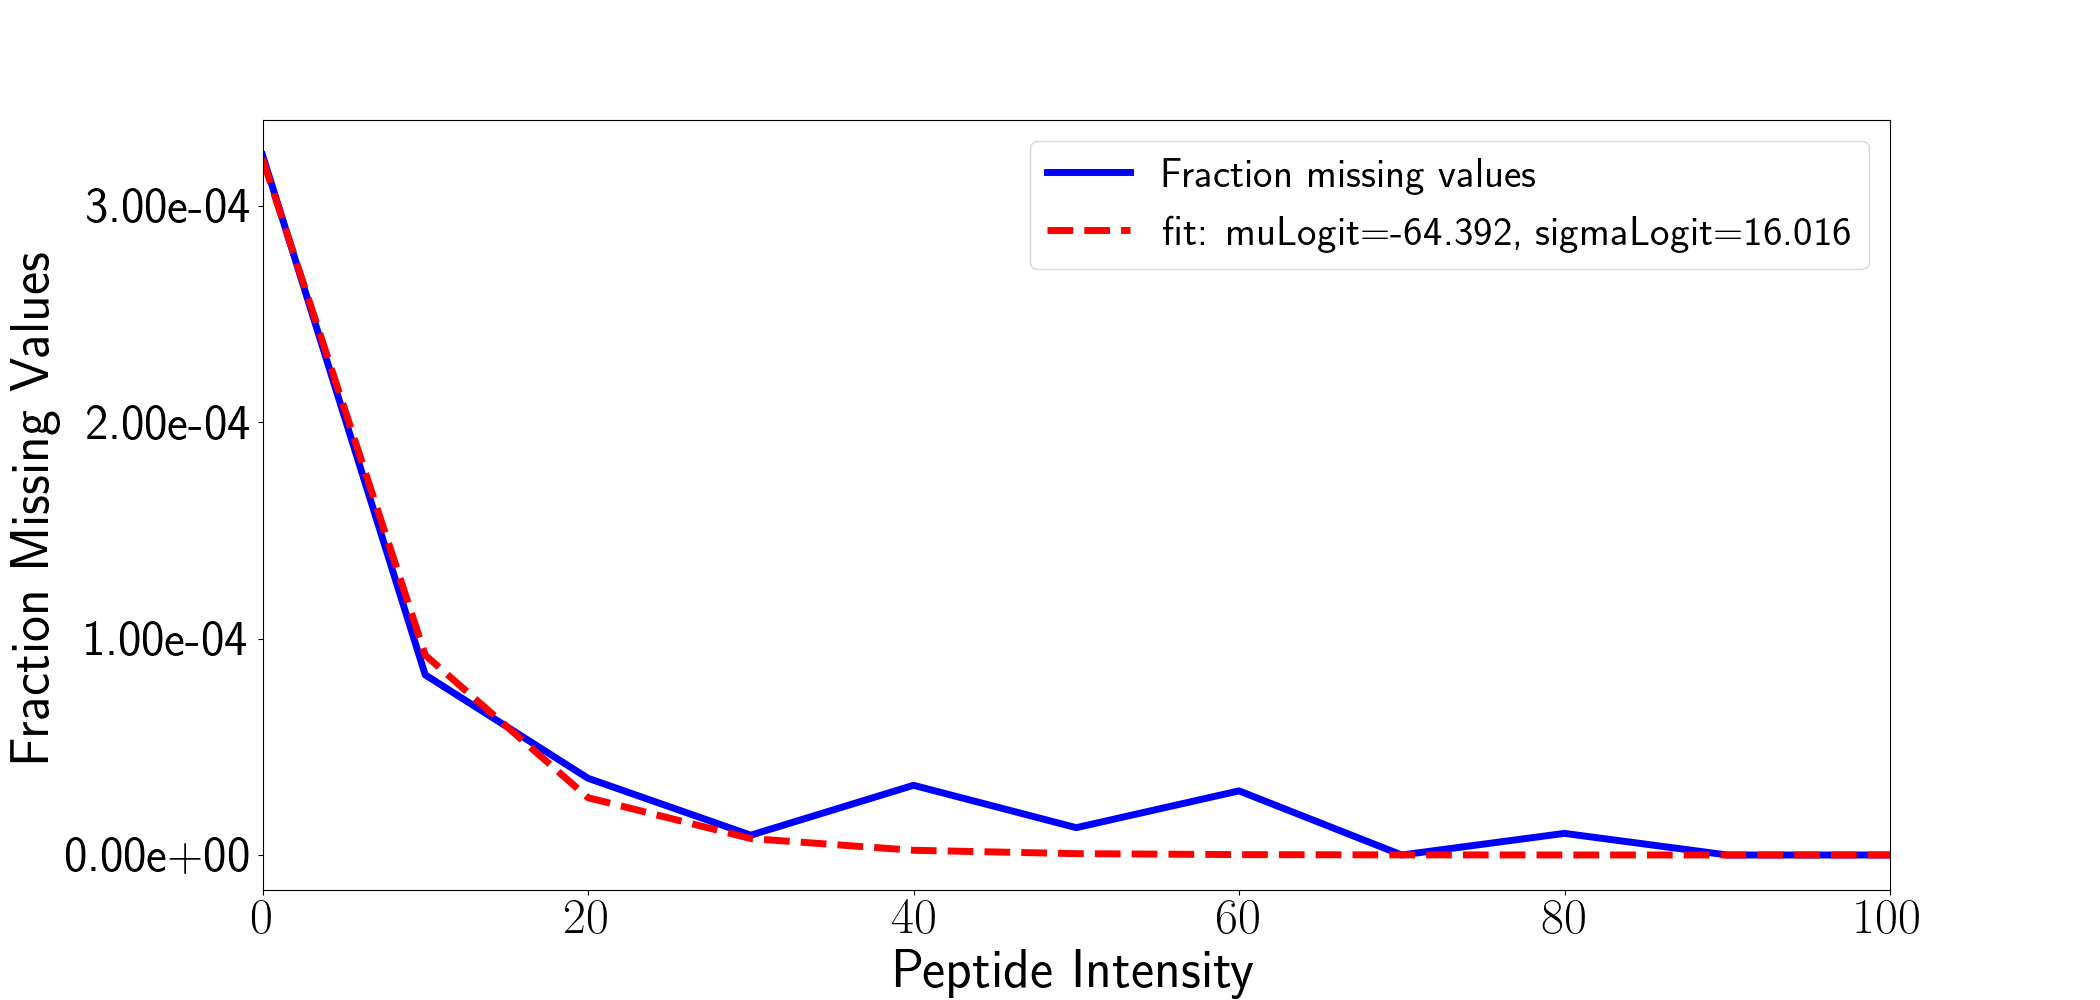
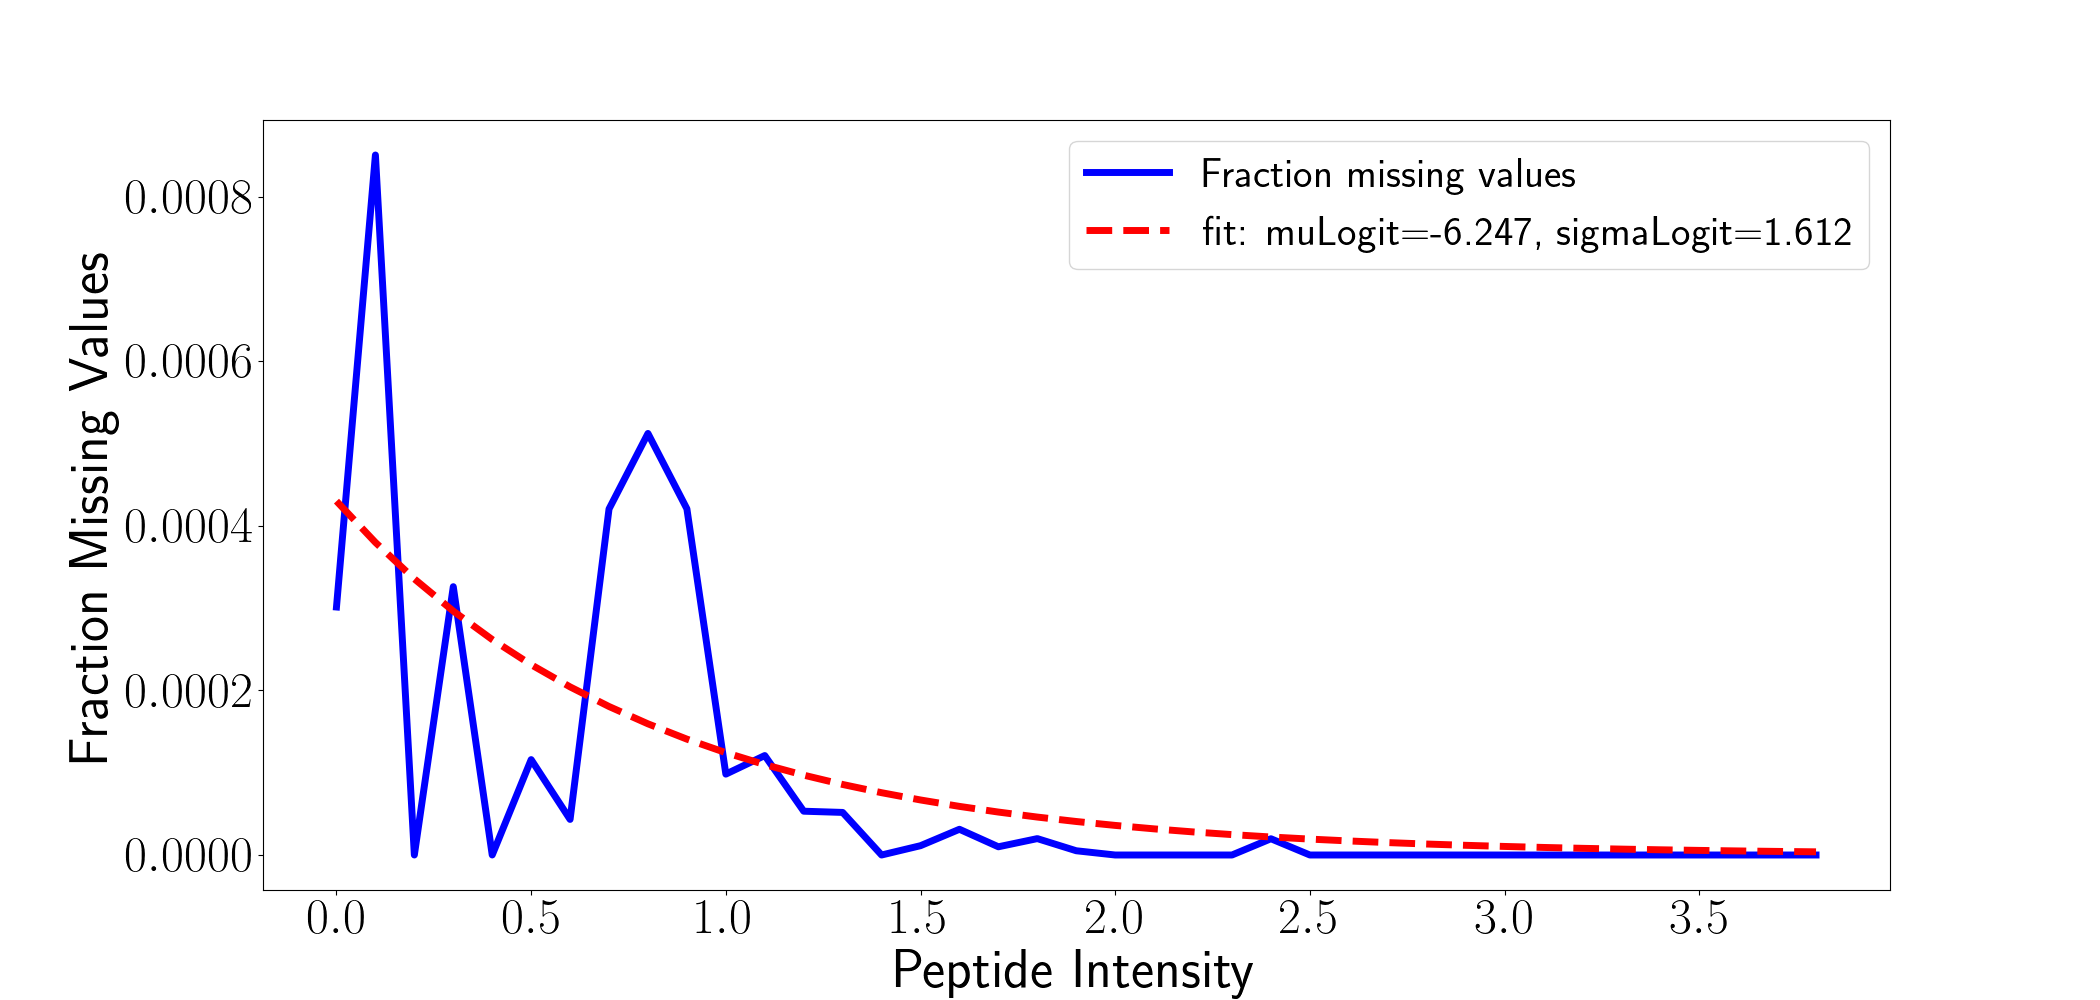
update fraction missing values

diff --git a/scripts/clean/plot_fraction_missing_values.py b/scripts/clean/plot_fraction_missing_values.py
@@ -59,7 +59,7 @@ def create_pivot_table_with_missing_count_per_condition(df):
     # Compute mean, standard deviation and na_count
     pivot_missing["mu"] = pivot_missing.mean(axis = 1)
     pivot_missing["std"] = pivot_missing.std(axis = 1) 
-    pivot_missing["na_count"] = pivot_missing.isna().sum(axis = 1) - 3 # remove three because we do not want to count missing on both samples
+    pivot_missing["na_count"] = pivot_missing.isna().sum(axis = 1) - 10 # remove three because we do not want to count missing on both samples
     return pivot_missing, conditions_cols
 
 
@@ -105,7 +105,7 @@ def compute_missing_value_factions(df, bins = np.arange(0,1000,10)):
     # Now each bin is an intensity range and each ratio is the fraction of missing value for that intensity.
     df_binned_missing_value_fraction = (df_binned_imputed_mean_nans.value_counts() / df_binned_vals.value_counts())
     df_binned_missing_value_fraction = pd.DataFrame(df_binned_missing_value_fraction.values, index = df_binned_missing_value_fraction.index, columns = ["fraction"]).reset_index()
-    df_binned_missing_value_fraction.index = np.arange(0, 990, 10)
+    df_binned_missing_value_fraction.index = bins[:-1]
     return df_binned_missing_value_fraction
 
 # From triqler code
@@ -137,11 +137,15 @@ output = args.output
 def main():
     print(f"Reading in: {triqler_input_file}")
     df = read_file(triqler_input_file)
+    df.intensity = df.intensity.replace([0], np.nan)
+
+    df.intensity = np.log10(df.intensity)
+    
     print("Imputing nans with mean...")
 
     print("Computing missing value fraction...")
-    df_binned_missing_value_fraction = compute_missing_value_factions(df, bins = np.arange(0,1000,10))
-    
+    df_binned_missing_value_fraction = compute_missing_value_factions(df, bins = np.arange(0,4,0.1))
+    df_binned_missing_value_fraction.fraction.fillna(value = 0, inplace = True)
     print("Generating plot...")
     fig, ax = plt.subplots(1, 1, figsize=(21,10))
     xdata = df_binned_missing_value_fraction.index
@@ -158,12 +162,12 @@ def main():
     ax.tick_params(axis='x', which='major')
     #ax.set_ylabel("Fraction missing values within binned interval", fontsize = 38)
     ax.set_ylabel("Fraction Missing Values", fontsize = 40)
-    ax.set_xlim(0, 100)
+    #ax.set_xlim(0, 100)
     #ax.set_ylim(0, 0.0)
     ax.legend(fontsize=30)
     ax.tick_params(axis='x', which='major', labelsize=36)#labelrotation=90)
     ax.tick_params(axis='y', which='major', labelsize=36)
-    ax.yaxis.set_major_formatter(mtick.FormatStrFormatter('%.2e'))
+    #ax.yaxis.set_major_formatter(mtick.FormatStrFormatter('%.2e'))
     #ax.set_title("DIANN - Fraction Missing Values for mean intensity", fontsize = 22, fontweight = "bold")
     fig = ax.get_figure()
     print(f"Saving output {output}")

diff --git a/doc/benchmark/supplement.tex b/doc/benchmark/supplement.tex
@@ -139,9 +139,9 @@ Yeast   & 6 050      & 5 848      \\ \hline
         {\rotatebox[origin=c]{90}{Triqler vs Top3}} & \includegraphics[width=\linewidth]{../../result/report_plots_pipeline/scatter_ID_triqler_vs_top3.png}  
                 & \includegraphics[width=\linewidth]{../../result/report_plots_pipeline/scatter_PS_triqler_vs_top3.png} \\ 
         {\rotatebox[origin=c]{90}{Triqler vs MSstats}} & \includegraphics[width=\linewidth]{../../result/report_plots_pipeline/scatter_ID_triqler_vs_msstats.png}  
-                & \includegraphics[width=\linewidth]{../../result/report_plots_pipeline/scatter_ID_triqler_vs_msstats.png} \\ 
+                & \includegraphics[width=\linewidth]{../../result/report_plots_pipeline/scatter_PS_triqler_vs_msstats.png} \\ 
         {\rotatebox[origin=c]{90}{Triqler vs MSqRob2}} & \includegraphics[width=\linewidth]{../../result/report_plots_pipeline/scatter_ID_triqler_vs_msqrob2.png}  
-                & \includegraphics[width=\linewidth]{../../result/report_plots_pipeline/scatter_ID_triqler_vs_msqrob2.png} \\ 
+                & \includegraphics[width=\linewidth]{../../result/report_plots_pipeline/scatter_PS_triqler_vs_msqrob2.png} \\ 
     \end{tabular}
     \caption{{\bf Comparison of reported log2-fold change between Triqler and the compared methods.} from ID and PS pipelines. Top3 proteins have a higher variance in log2-fold changes than Triqler. MSstats and MSqRob2 has a bias for the \textit{E. coli} group. \label{fig:fc_scatter_triqler_vs_method_supplement}}
    
